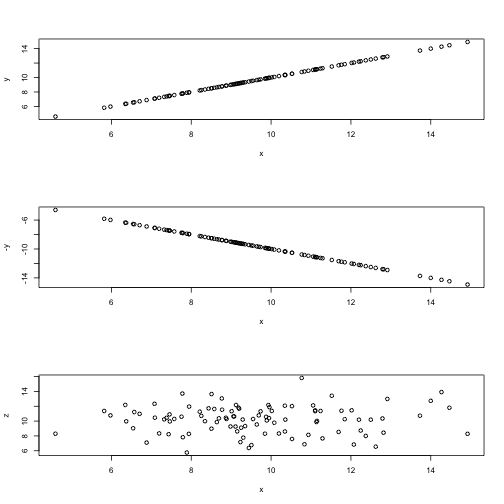
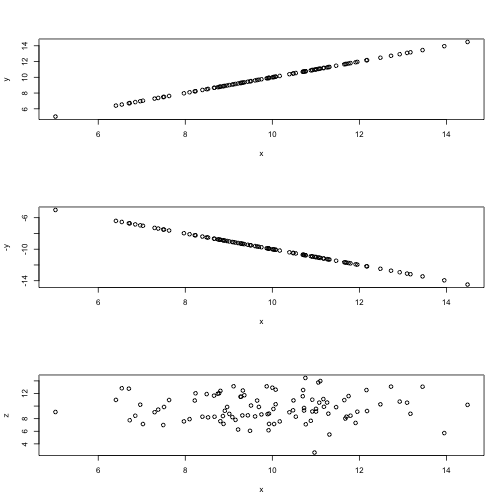
.

diff --git a/r_course/introToR_Session1.md b/r_course/introToR_Session1.md
@@ -2005,14 +2005,14 @@ A standard format for this data is a table
 
 |Gene_Name | Sample_1.hi| Sample_2.hi| Sample_3.hi| Sample_4.low| Sample_5.low| Sample_1.low|
 |:---------|-----------:|-----------:|-----------:|------------:|------------:|------------:|
-|Gene_a    |    4.215711|    3.670822|    5.169271|     2.384272|     5.131339|     4.402003|
-|Gene_b    |    4.461908|    3.682828|    4.938918|     4.834865|     4.728040|     4.152675|
-|Gene_c    |    2.929809|    1.837549|    4.176947|     4.656790|     3.760913|     5.377315|
-|Gene_d    |    2.588085|    2.497364|    5.954059|     8.159336|     8.125093|     7.403279|
-|Gene_e    |    9.911103|   10.482136|    8.931214|     3.480753|     2.987825|     1.373690|
-|Gene_f    |    9.999270|    9.682555|    8.894333|     4.126235|     2.780430|     3.851260|
-|Gene_g    |    9.825405|   10.262375|    9.964476|    11.512882|     9.180009|    10.058244|
-|Gene_h    |    9.950973|   11.223773|   10.442852|    10.016972|    10.598130|    10.217583|
+|Gene_a    |    3.844480|    2.444647|    2.075147|     3.550067|     3.956892|     3.984822|
+|Gene_b    |    3.785115|    4.269489|    2.815491|     3.983363|     4.665624|     3.722981|
+|Gene_c    |    3.236114|    4.972497|    3.175344|     4.246548|     4.949337|     4.358999|
+|Gene_d    |    3.618515|    2.681021|    5.296902|     9.281976|     7.859148|     8.142729|
+|Gene_e    |    9.563484|   10.810453|    8.250545|     2.695070|     2.598942|     4.445288|
+|Gene_f    |   10.902115|   10.763037|    9.781867|     1.482492|     4.472714|     4.299734|
+|Gene_g    |    9.550718|    9.303397|   11.003809|     9.963259|    10.030142|    10.188021|
+|Gene_h    |    9.944575|   10.144541|   10.975076|    10.501497|     9.417994|     8.965763|
 
 Data IO (2/7) - Data from text file with read.table()
 =========================================================
@@ -3186,7 +3186,7 @@ cor(x,z)
 ```
 
 ```
-[1] 0.03812266
+[1] 0.03047736
 ```
 ***
 ![plot of chunk unnamed-chunk-204](introToR_Session1-figure/unnamed-chunk-204-1.png) 
@@ -3200,8 +3200,8 @@ Often we wish to apply correlation analysis to all columns or rows in a matrix i
 
 | Sample_1.hi| Sample_2.hi| Sample_3.hi| Sample_4.low| Sample_5.low| Sample_1.low|
 |-----------:|-----------:|-----------:|------------:|------------:|------------:|
-|    4.215711|    3.670822|    5.169271|     2.384272|     5.131339|     4.402003|
-|    4.461908|    3.682828|    4.938918|     4.834865|     4.728040|     4.152675|
+|    3.844480|    2.444647|    2.075147|     3.550067|     3.956892|     3.984822|
+|    3.785115|    4.269489|    2.815491|     3.983363|     4.665624|     3.722981|
 
 
 ```r
@@ -3210,8 +3210,8 @@ cor(minRep)[1:2,2:5]
 
 ```
             Sample_2.hi Sample_3.hi Sample_4.low Sample_5.low
-Sample_1.hi   0.9913331   0.9388585    0.2954195    0.1288088
-Sample_2.hi   1.0000000   0.9684496    0.3665444    0.2294536
+Sample_1.hi   0.9591403   0.9332448  0.075562753    0.2139001
+Sample_2.hi   1.0000000   0.8823794 -0.004715812    0.1188497
 ```
 
 Statistics (9/26) - Visualising correlation
@@ -3260,8 +3260,8 @@ rnorm(10,mean=8,sd=3)
 ```
 
 ```
- [1] 15.893277 11.457279  6.851956  8.796858 10.349917  8.145469  9.411747
- [8]  7.839770  7.100905  6.140770
+ [1]  8.490967 10.900030  9.253591  6.158976  2.090508  2.302386  8.944682
+ [8] 10.600035 11.700649  3.185440
 ```
 We can also use these functions to interrogate values assuming a normal distribution for the data.
 
